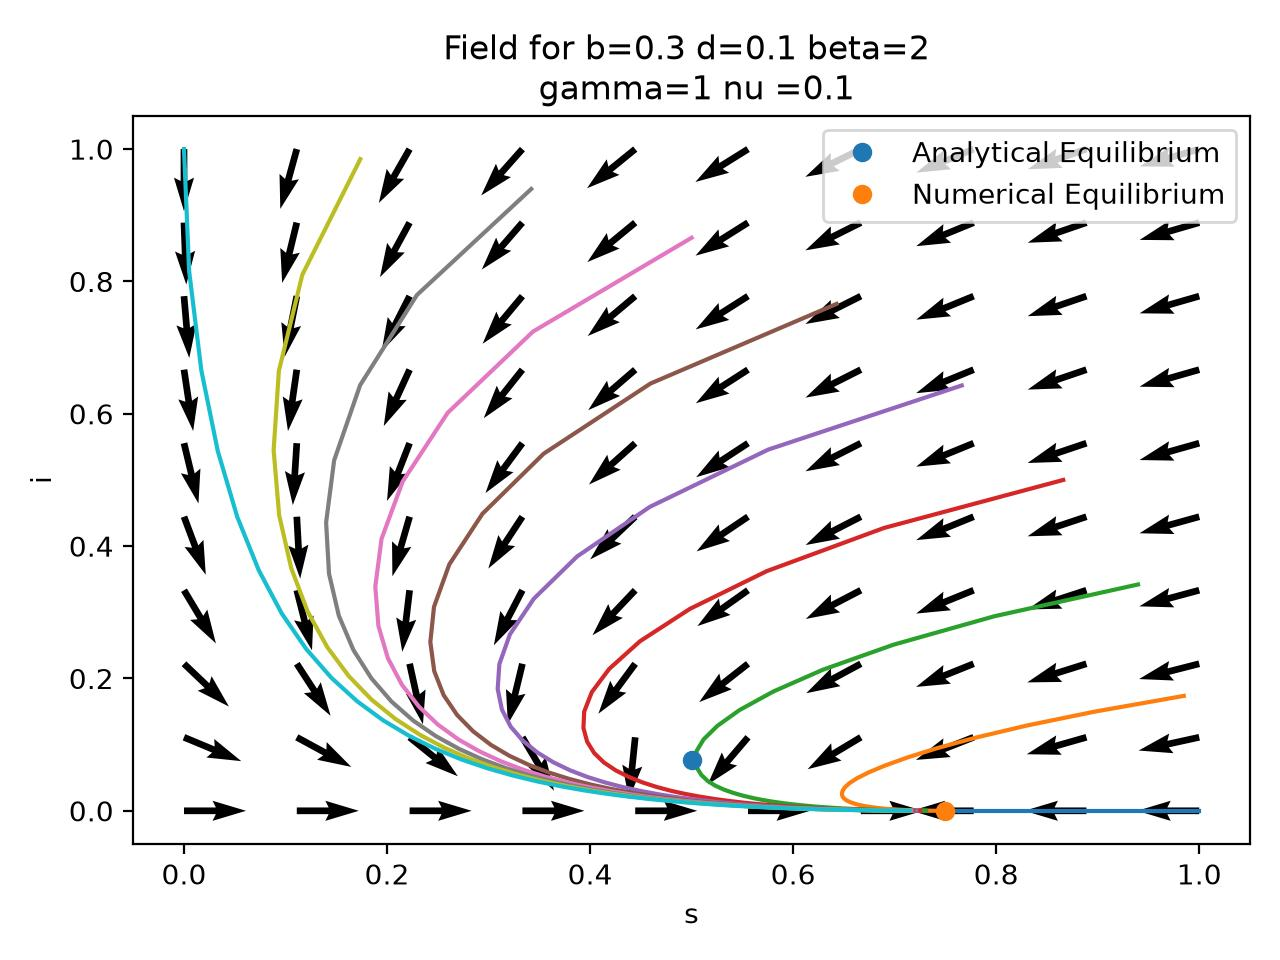
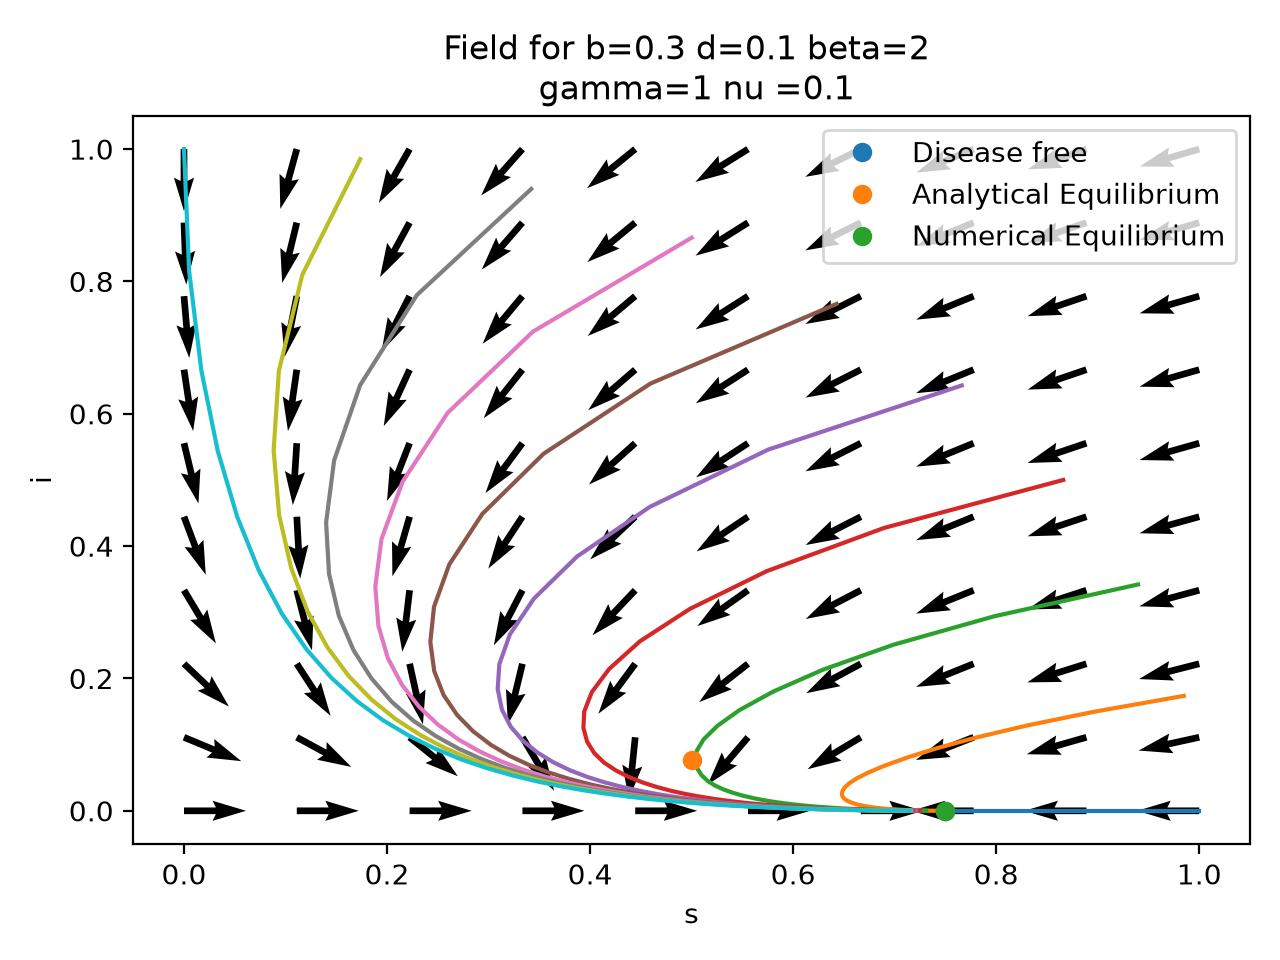
checking allclose equality of root

Changed region(s): [[0.625, 0.125, 0.9688, 0.2812], [0.7188, 0.8125, 0.75, 0.875], [0.5312, 0.7812, 0.5625, 0.8125]]

diff --git a/stability.py b/stability.py
@@ -15,10 +15,13 @@ def sys(t,v):
 
 R_0 = (beta/gamma)*(b/(b+nu))
 print(f"R_0 Value: {R_0}")
-
 J_P0 = np.array([
     [-b-nu,-b-(beta*b)/(b+gamma)],
     [0, (beta*b)/(b+gamma)-gamma]
+])
+
+P_0 = np.array([
+    b/(b+nu),0
 ])
 
 P_star = np.array([
@@ -26,7 +29,8 @@ P_star = np.array([
 ])
 
 rt = root(lambda v : stability_system(b,d,beta,gamma,nu,v[0],v[1]),x0=(0.5,0.5))
-
+print("Is the root near P_0?", np.allclose(rt.x,P_0))
+print("Is the root near P_star?",np.allclose(rt.x,P_star))
 points = np.linspace(0,1,10)
 ini = np.column_stack([np.cos((np.pi/2)*points),np.sin((np.pi/2)*points)])
 X,Y = np.meshgrid(points,points)
@@ -39,7 +43,7 @@ for y0 in ini:
     x,y = sol.y
     plt.plot(x,y)
 
-
+plt.plot(P_0[0],P_0[1],'o',label="Disease free")
 plt.plot(P_star[0],P_star[1],'o',label='Analytical Equilibrium')
 plt.plot(rt.x[0],rt.x[1],'o',label='Numerical Equilibrium')
 plt.title(f'Field for b={b} d={d} beta={beta} \n gamma={gamma} nu ={nu}')
